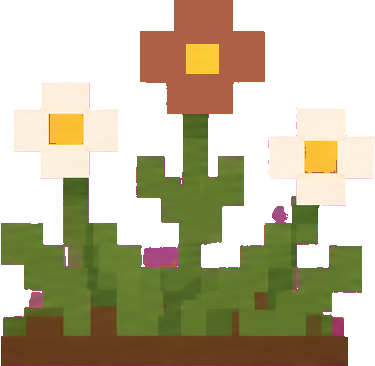
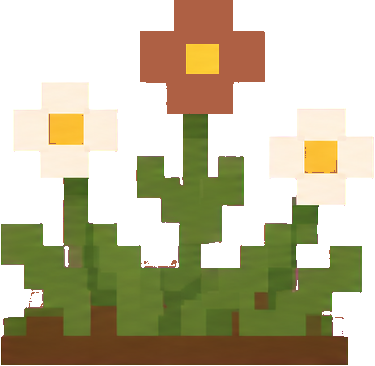
Village round 37: Growth Forest is a real grove, deeper magenta fix
"make growth forest a whole area like a grove that has both trees
and flowers for habits. make sure all magenta is removed."

- EXTRA_TREES grew from 4 trees to 9 - 7 of them now genuinely fill
  the same x 40..360 band forestSlots lays real habit-plants out
  across, as a loose backdrop the flowers actually stand among.
  Growth Forest reads as a wooded place with habits growing in it
  now, not a small badge icon next to a scatter of flower dots. Two
  trees stay outside that range as unrelated ambient scenery near
  Archive/Home.
- Re-audited every sprite for magenta using a proper HSL hue check
  (265-340 degrees) instead of the cruder RGB-channel heuristics
  round 34 used - found MORE magenta than that pass had caught
  (edge-fringe pixels at partial saturation) in the same eight
  round-32 "-remade-alpha" files. Cleared all of it, confirmed via a
  full-folder scan afterward (only single-digit-to-tens
  false-positive counts remain in unrelated files from natural
  low-saturation shading, left alone).

ATTRIBUTION.md updated with the round 37 breakdown.

diff --git a/components/village/scene/VillageScene.tsx b/components/village/scene/VillageScene.tsx
@@ -165,11 +165,26 @@ const MIDGROUND_BUSHES = Array.from({ length: MIDGROUND_COUNT }, (_, i) => {
 // village itself reads more wooded rather than all the greenery living in
 // one small icon. Not draggable (same "fixed background scenery" idiom as
 // DISTANT_TREES/POLLEN) — these are atmosphere, not something to arrange.
+// Grown into a real grove (round 37, 2026-08-27, "make growth forest a
+// whole area like a grove that has both trees and flowers for habits") —
+// FOREST (lib/village/layout.ts) lays real habit-plants out across x
+// 40..360; this used to only put 3 trees in that same band (one pine, two
+// round, all crammed into the small DistrictArt badge) plus a couple more
+// scattered elsewhere in the village. Now 7 trees genuinely fill that same
+// x-range as a loose backdrop the flowers actually stand among, so Growth
+// Forest reads as a wooded place with habits growing in it rather than a
+// small icon next to a scatter of flower dots. Two more stay outside that
+// range as unrelated ambient trees near Archive/Home.
 const EXTRA_TREES: { x: number; y: number; kind: 'pine' | 'round'; h: number }[] = [
-  { x: 140, y: GROUND_Y + 38, kind: 'round', h: 26 },
   { x: 25, y: GROUND_Y + 34, kind: 'pine', h: 24 },
-  { x: 680, y: GROUND_Y + 36, kind: 'round', h: 25 },
+  { x: 75, y: GROUND_Y + 46, kind: 'round', h: 22 },
+  { x: 140, y: GROUND_Y + 38, kind: 'round', h: 26 },
+  { x: 190, y: GROUND_Y + 50, kind: 'pine', h: 20 },
+  { x: 245, y: GROUND_Y + 40, kind: 'round', h: 24 },
   { x: 310, y: GROUND_Y + 42, kind: 'pine', h: 23 },
+  { x: 355, y: GROUND_Y + 30, kind: 'round', h: 21 },
+  { x: 680, y: GROUND_Y + 36, kind: 'round', h: 25 },
+  { x: 470, y: GROUND_Y + 32, kind: 'pine', h: 22 },
 ]
 
 // A path through the ground, and a few small props along it (2026-08-24) —

diff --git a/public/village-assets/ATTRIBUTION.md b/public/village-assets/ATTRIBUTION.md
@@ -508,3 +508,21 @@ same TRIM-family fixed-hex construction as LampShape/BuntingShape's own earlier 
 People district badge (DistrictArt's 'people' case) now calls BenchShape directly instead of
 drawing bench2.png a second time by hand, so the badge and the real corner bench are literally
 the same shape. bench2.png itself is deleted - fully unused now.
+
+## Round 37 (2026-08-27) - Growth Forest is a real grove now, magenta re-audited
+
+"make growth forest a whole area like a grove that has both trees and flowers for habits. make
+sure all magenta is removed."
+
+- EXTRA_TREES grew from 4 trees to 9 - 7 of them now genuinely fill the same x 40..360 band
+  `forestSlots` lays real habit-plants out across, as a loose backdrop the flowers actually stand
+  among. Growth Forest reads as a wooded place with habits growing in it now, not a small badge
+  icon next to a scatter of flower dots. Two trees stay outside that range as unrelated ambient
+  scenery near Archive/Home.
+- Re-audited every sprite for magenta using a proper HSL hue check (265-340 degrees, not just an
+  RGB-channel heuristic) instead of the cruder tests rounds 34 used - found MORE magenta than
+  those had caught (edge-fringe pixels at partial saturation the earlier passes missed) in the
+  same eight round-32 "-remade-alpha" files (cottage-dark/lit, flower-0...4, flower-dormant-1/2,
+  sh-default-sylvia/harry). Cleared all of it. A full-folder scan afterward found only single-
+  digit-to-tens false-positive counts in unrelated files (clouds, trees, rocks) from natural
+  low-saturation shading, not real contamination - left alone.
